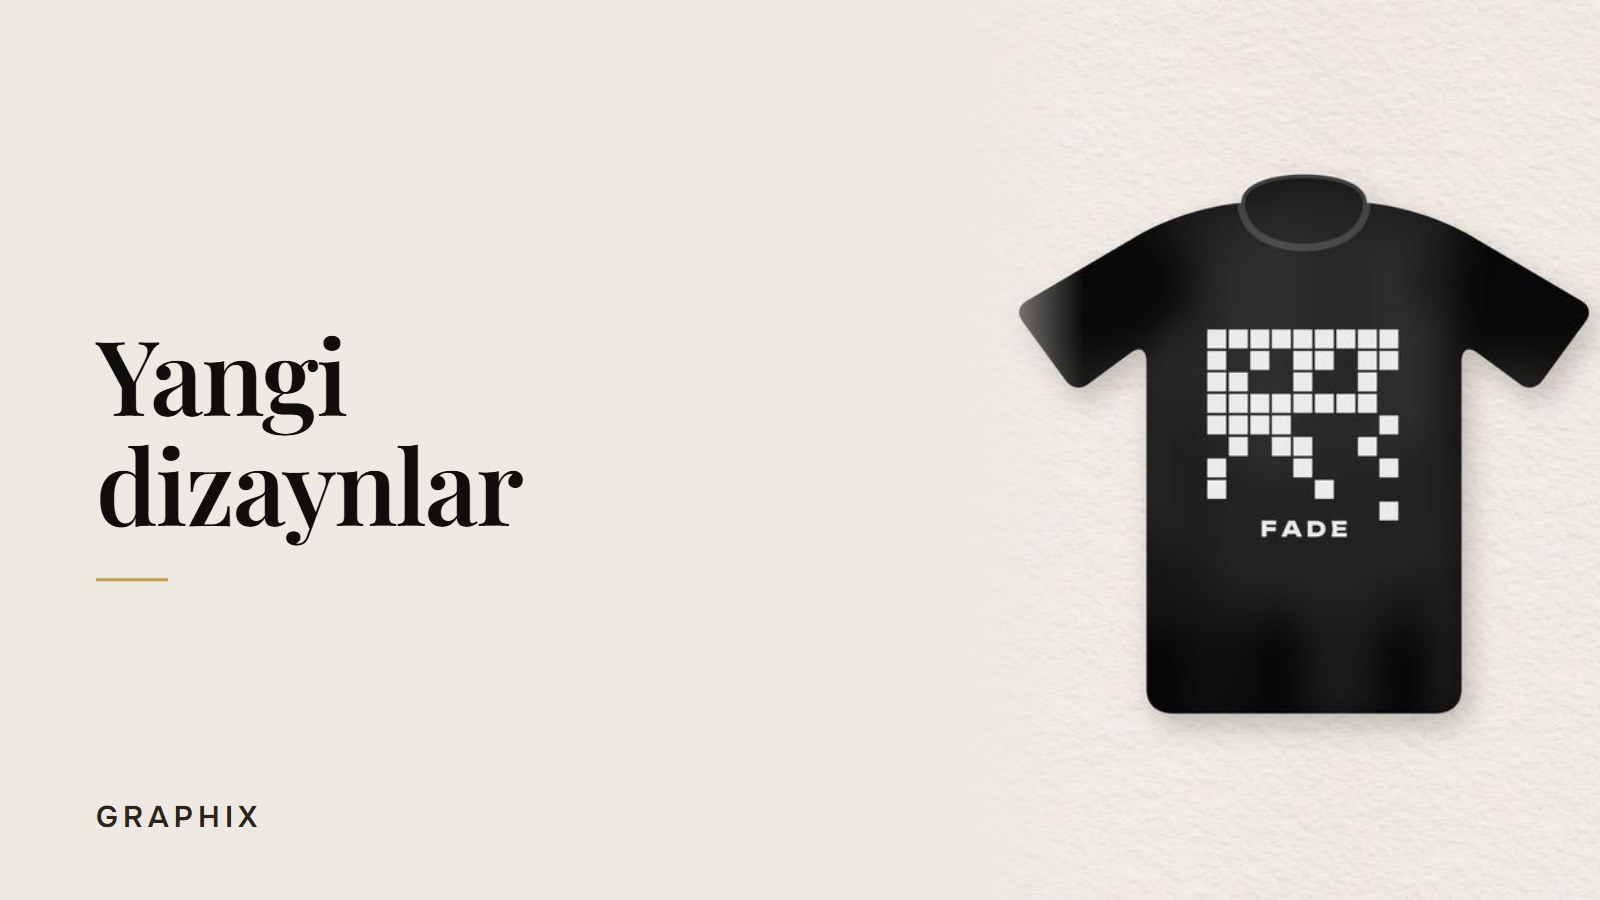
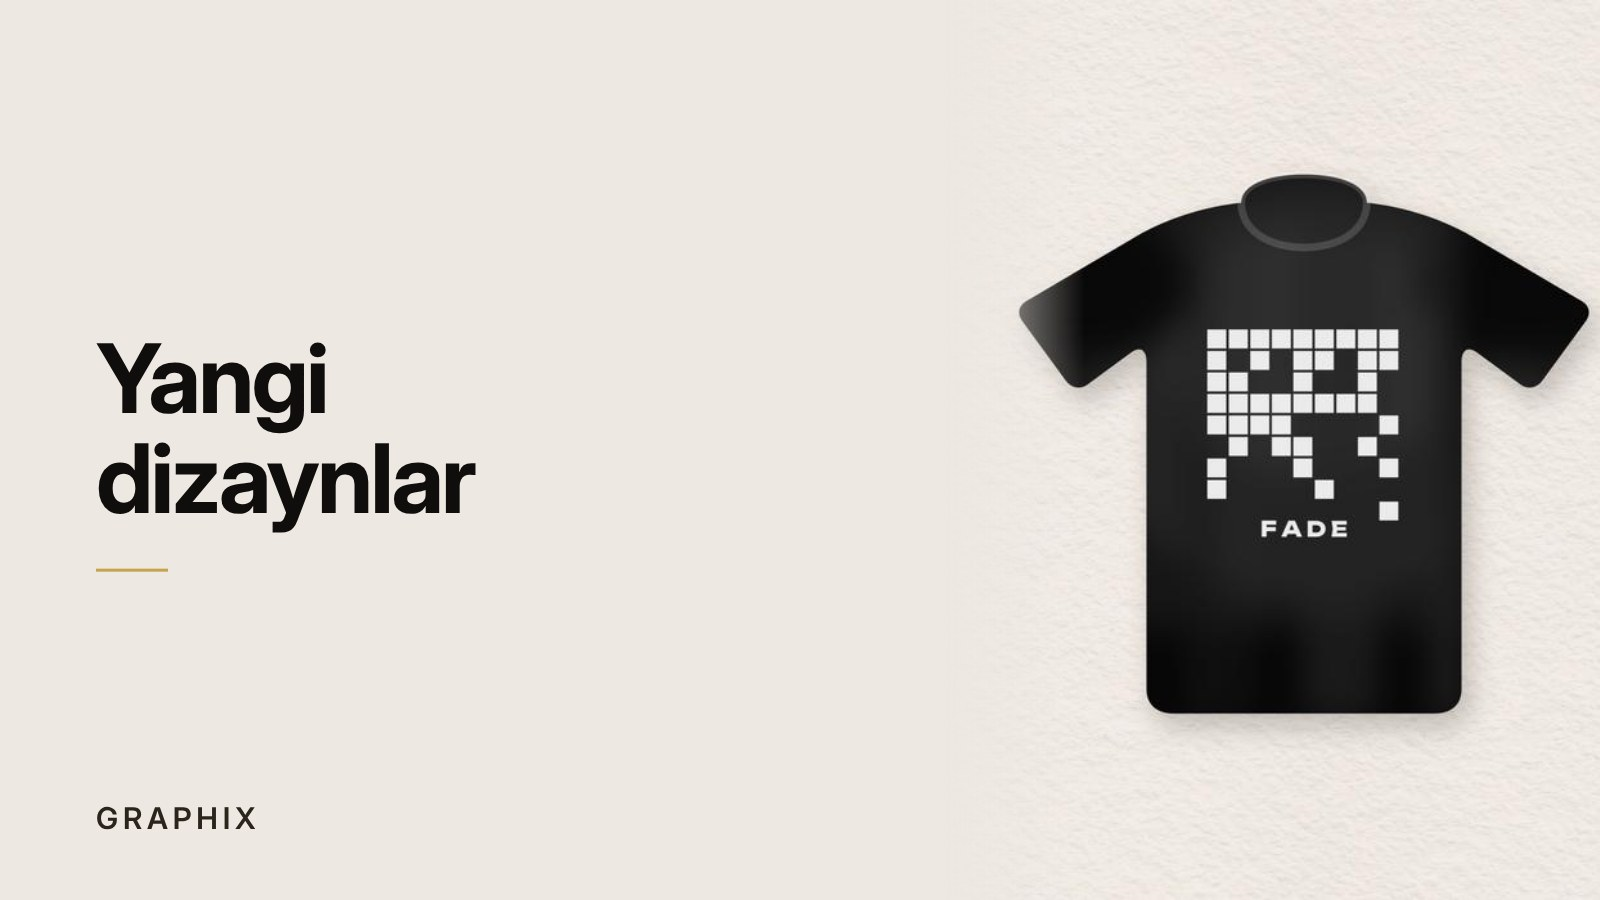
phase-17: redraw the lockups, share card, size chart and demo slides in Inter
Type that lives inside a picture is the same face as the page. The two
wordmark lockups are outlined from Inter Bold. The share card and the size
chart are drawn from HTML sources in docs/brand with the site's own font
file, and the demo slides from the same file.

The size chart's source had been lost and was drawn again from the picture.
It is tracked now, and a test holds its numbers to product/size_charts.py.

Plan §9 Phase 17 item 6.

Claude-Session: https://claude.ai/code/session_01CfDBxfWi2ozahCDG84qt9L

Changed region(s): [[0.0625, 0.3733, 0.3438, 0.6222], [0.0625, 0.8711, 0.1562, 0.9333], [0.0625, 0.6222, 0.125, 0.6533]]

diff --git a/docs/brand/size-guide.html b/docs/brand/size-guide.html
@@ -1,0 +1,145 @@
+<!doctype html>
+<!--
+  GRAPHIX size chart - the picture the size guide page and the product page
+  show (static/img/size_guide.png, 2400 x 1742).
+
+  The source of that PNG. The owner can replace the picture with one of his own
+  (§17 #69); until he does, this is it, and it is set in the site's own face
+  from the file the site serves (§17 #311), on the site's ground and ink.
+
+  One picture for all three languages, so the labels carry all three. The
+  numbers are the ones in product/size_charts.py, and a test holds the two
+  together. They are provisional until a real garment is measured (§17 #95).
+
+  To regenerate, from the repository root in PowerShell, on one line (any
+  Chromium browser takes the same switches; the paths must be absolute, and the
+  time budget lets the font load before the capture):
+
+    & "${env:ProgramFiles(x86)}\Microsoft\Edge\Application\msedge.exe" --headless
+      --hide-scrollbars --window-size=1200,871 --force-device-scale-factor=2
+      --virtual-time-budget=3000
+      "--screenshot=$PWD\static\img\size_guide.png" "$PWD\docs\brand\size-guide.html"
+-->
+<html lang="uz">
+<head>
+<meta charset="utf-8">
+<title>GRAPHIX size chart</title>
+<style>
+  @font-face { font-family: "Inter"; font-weight: 100 900;
+    src: url("../../static/fonts/inter-var.woff2") format("woff2-variations"); }
+  /* The site's tokens (static/css/tokens.css), copied because this page
+     is rendered outside the site. */
+  :root { --c-bg: #100E0C; --c-surface-2: #211C15; --c-fg: #EFE9DE;
+    --c-fg-muted: #B0A697; --c-fg-hint: #958A79; --c-line: #2C2620;
+    --c-line-strong: #453D31; --c-brand: #C6A44E; }
+  * { box-sizing: border-box; margin: 0; padding: 0; }
+  html, body { width: 1200px; height: 871px; overflow: hidden;
+    background: var(--c-bg); color: var(--c-fg);
+    font-family: "Inter", sans-serif; font-weight: 500; }
+  .chart { width: 1200px; height: 871px; padding: 0 56px;
+    display: grid; grid-template-rows: 130px 1fr 128px; }
+
+  .chart__head { display: flex; align-items: flex-end; justify-content: space-between;
+    padding-bottom: 26px; border-bottom: 1px solid var(--c-line-strong); }
+  .chart__title { font-weight: 700; font-size: 56px; line-height: 1; letter-spacing: -.02em; }
+  .chart__brand { font-weight: 700; font-size: 20px; line-height: 1; letter-spacing: .10em;
+    color: var(--c-brand); padding-bottom: 6px; }
+
+  .chart__body { display: grid; grid-template-columns: 468px 1fr; padding-top: 36px; }
+
+  .tee { display: block; width: 292px; height: 264px; margin: -16px 0 0 60px; }
+  .tee__cloth { fill: var(--c-surface-2); stroke: var(--c-line-strong); stroke-width: 2.5;
+    stroke-linejoin: round; }
+  .tee__rule { fill: none; stroke: var(--c-brand); stroke-width: 2.5; stroke-dasharray: 9 7; }
+  .tee__tick { fill: none; stroke: var(--c-brand); stroke-width: 2.5; }
+  .tee__letter { fill: var(--c-brand); font-weight: 700; font-size: 25px; }
+
+  .key { display: grid; grid-template-columns: auto auto; justify-content: start;
+    gap: 14px 26px; margin-top: 38px; font-size: 15px; color: var(--c-fg-muted); }
+  .key b { display: inline-block; width: 24px; color: var(--c-brand); font-weight: 700; }
+
+  .cut + .cut { margin-top: 36px; }
+  .cut__name { font-weight: 700; font-size: 24px; line-height: 1; letter-spacing: -.01em;
+    margin-bottom: 18px; }
+  .cut table { width: 100%; border-collapse: collapse; font-variant-numeric: tabular-nums; }
+  .cut th, .cut td { text-align: right; width: 91px; }
+  .cut th:first-child, .cut td:first-child { text-align: left; width: auto; }
+  .cut thead th { font-size: 12px; font-weight: 600; letter-spacing: .16em; text-transform: uppercase;
+    color: var(--c-fg-hint); padding-bottom: 12px; border-bottom: 1px solid var(--c-line-strong); }
+  .cut tbody td { height: 46px; font-size: 16px; font-weight: 600; border-bottom: 1px solid var(--c-line); }
+  .cut tbody td:first-child { font-weight: 700; }
+  .cut tbody tr:last-child td { border-bottom: 0; }
+
+  .chart__foot { border-top: 1px solid var(--c-line-strong); padding-top: 20px;
+    font-size: 14px; line-height: 21px; color: var(--c-fg-hint); }
+</style>
+</head>
+<body>
+  <div class="chart">
+    <div class="chart__head">
+      <h1 class="chart__title">Oʻlcham jadvali</h1>
+      <span class="chart__brand">GRAPHIX</span>
+    </div>
+
+    <div class="chart__body">
+      <div>
+        <!-- A T-shirt laid flat, with the four measurements drawn on it. -->
+        <svg class="tee" viewBox="-6 -30 486 440" aria-hidden="true">
+          <path class="tee__cloth" d="M137 57Q227 110 317 57L451 147L397 230L333 173L350 388Q350 400 338 400H115Q103 400 103 388L120 173L57 230L3 147Z"/>
+          <path class="tee__rule" d="M137 31H317"/>
+          <path class="tee__tick" d="M137 16V40M317 16V40"/>
+          <path class="tee__rule" d="M105 207H349"/>
+          <path class="tee__tick" d="M105 195V216M349 195V216"/>
+          <path class="tee__rule" d="M227 64V400"/>
+          <path class="tee__tick" d="M211 64H237M213 400H237"/>
+          <path class="tee__rule" d="M325 62L428 180"/>
+          <path class="tee__tick" d="M310 74L330 58M410 192L428 178"/>
+          <text class="tee__letter" x="227" y="2" text-anchor="middle">C</text>
+          <text class="tee__letter" x="204" y="196" text-anchor="middle">A</text>
+          <text class="tee__letter" x="246" y="303">B</text>
+          <text class="tee__letter" x="446" y="136">D</text>
+        </svg>
+        <div class="key">
+          <span><b>A</b>Koʻkrak · Грудь · Chest</span>
+          <span><b>B</b>Uzunlik · Длина · Length</span>
+          <span><b>C</b>Yelka · Плечо · Shoulder</span>
+          <span><b>D</b>Yeng · Рукав · Sleeve</span>
+        </div>
+      </div>
+
+      <div>
+        <div class="cut" data-cut="regular">
+          <h2 class="cut__name">Oddiy / Regular</h2>
+          <table>
+            <thead><tr><th>Oʻlcham</th><th>A</th><th>B</th><th>C</th><th>D</th></tr></thead>
+            <tbody>
+              <tr><td>S</td><td>48</td><td>69</td><td>43</td><td>19</td></tr>
+              <tr><td>M</td><td>51</td><td>71</td><td>46</td><td>20</td></tr>
+              <tr><td>L</td><td>54</td><td>73</td><td>49</td><td>21</td></tr>
+              <tr><td>XL</td><td>57</td><td>75</td><td>52</td><td>22</td></tr>
+            </tbody>
+          </table>
+        </div>
+        <div class="cut" data-cut="oversize">
+          <h2 class="cut__name">Oversize</h2>
+          <table>
+            <thead><tr><th>Oʻlcham</th><th>A</th><th>B</th><th>C</th><th>D</th></tr></thead>
+            <tbody>
+              <tr><td>S</td><td>54</td><td>70</td><td>52</td><td>21</td></tr>
+              <tr><td>M</td><td>57</td><td>72</td><td>55</td><td>22</td></tr>
+              <tr><td>L</td><td>60</td><td>74</td><td>58</td><td>23</td></tr>
+              <tr><td>XL</td><td>63</td><td>76</td><td>61</td><td>24</td></tr>
+            </tbody>
+          </table>
+        </div>
+      </div>
+    </div>
+
+    <div class="chart__foot">
+      <p>Oʻlchamlar kiyim tekis yotqizilgan holda, santimetrda olingan · ±1 sm farq boʻlishi mumkin</p>
+      <p>Замеры сняты с изделия на плоскости, в сантиметрах · допуск ±1 см</p>
+      <p>Measured flat, in centimetres · allow ±1 cm</p>
+    </div>
+  </div>
+</body>
+</html>

diff --git a/docs/brand/og-card.html b/docs/brand/og-card.html
@@ -4,18 +4,18 @@
   beside a link (static/img/og-image.png, 1200 x 630).
 
   The source of that PNG. Phase 1a set the card in a placeholder face before
-  the brand had one (plan §18 #8); this sets it in the site's own - Playfair
-  Display and Onest, the files the site serves - with the site's ground and
-  ink, and the header's own lockup: the mark beside "GRAPHIX" in Playfair,
-  spaced as `.nav__brand` spaces it. No accent: brass is spent only on price,
-  the chosen size and the primary action (§17 #45).
+  the brand had one (plan §18 #8); this sets it in the site's own - Inter,
+  the file the site serves (§17 #311) - with the site's ground and ink, and
+  the header's own lockup: the mark beside "GRAPHIX", spaced as `.nav__brand`
+  spaces it. No accent: brass is spent only on price, the chosen size and the
+  primary action (§17 #45).
 
   One picture for all three languages, so it carries the Uzbek line, and no
   figure that could go stale (no "100+ designs" - §17 #39 gates that claim).
 
   To regenerate, from the repository root in PowerShell, on one line (any
   Chromium browser takes the same switches; the paths must be absolute, and the
-  time budget lets the two fonts load before the capture):
+  time budget lets the font load before the capture):
 
     & "${env:ProgramFiles(x86)}\Microsoft\Edge\Application\msedge.exe" --headless
       --hide-scrollbars --window-size=1200,630 --virtual-time-budget=3000
@@ -26,10 +26,8 @@
 <meta charset="utf-8">
 <title>GRAPHIX share card</title>
 <style>
-  @font-face { font-family: "Playfair Display"; font-weight: 400 900;
-    src: url("../../static/fonts/playfair-display-var.woff2") format("woff2-variations"); }
-  @font-face { font-family: "Onest"; font-weight: 100 900;
-    src: url("../../static/fonts/onest-var.woff2") format("woff2-variations"); }
+  @font-face { font-family: "Inter"; font-weight: 100 900;
+    src: url("../../static/fonts/inter-var.woff2") format("woff2-variations"); }
   /* The site's tokens (static/css/tokens.css), copied because this page
      is rendered outside the site. */
   :root { --c-bg: #100E0C; --c-fg: #EFE9DE; --c-fg-muted: #B0A697; }
@@ -40,13 +38,12 @@
     justify-content: space-between; }
   .card__brand { display: flex; align-items: center; gap: 16px; }
   .card__mark { width: 48px; height: 48px; fill: var(--c-fg); }
-  .card__name { font-family: "Playfair Display", serif; font-weight: 700;
-    font-size: 44px; letter-spacing: .10em; line-height: 1; }
-  .card__line { margin: 0; font-family: "Playfair Display", serif; font-weight: 700;
-    font-size: 76px; line-height: 1.06; letter-spacing: -0.015em; max-width: 900px;
-    text-wrap: balance; }
-  .card__sub { margin: 28px 0 0; font-family: "Onest", sans-serif; font-weight: 500;
-    font-size: 30px; line-height: 1.3; color: var(--c-fg-muted); }
+  .card { font-family: "Inter", sans-serif; }
+  .card__name { font-weight: 700; font-size: 44px; letter-spacing: .10em; line-height: 1; }
+  .card__line { margin: 0; font-weight: 700; font-size: 76px; line-height: 1.06;
+    letter-spacing: -0.02em; max-width: 900px; text-wrap: balance; }
+  .card__sub { margin: 28px 0 0; font-weight: 500; font-size: 30px; line-height: 1.3;
+    color: var(--c-fg-muted); }
 </style>
 </head>
 <body>

diff --git a/core/test_phase17.py b/core/test_phase17.py
@@ -92,6 +92,48 @@ class OneFaceTests(SimpleTestCase):
                 self.assertIn('crossorigin', preloads[0])
 
 
+class PicturesTests(SimpleTestCase):
+    """Type that lives inside a picture is the same face, and can be drawn again."""
+
+    BRAND = ROOT / 'docs' / 'brand'
+    IMG = ROOT / 'static' / 'img'
+
+    def test_each_picture_source_draws_with_the_site_file(self):
+        for name in ('og-card.html', 'size-guide.html'):
+            with self.subTest(source=name):
+                text = (self.BRAND / name).read_text(encoding='utf-8')
+                self.assertIn('static/fonts/inter-var.woff2', text)
+                self.assertIsNone(RETIRED.search(text))
+
+    def test_the_size_chart_source_names_its_picture(self):
+        text = (self.BRAND / 'size-guide.html').read_text(encoding='utf-8')
+        self.assertIn('size_guide.png', text)
+        self.assertIn('--window-size=1200,871', text)
+
+    def test_the_size_chart_carries_the_seeded_measurements(self):
+        """The picture's numbers and the rows the site seeds are one table."""
+        from product import size_charts
+        text = (self.BRAND / 'size-guide.html').read_text(encoding='utf-8')
+        for cut, table in (('regular', size_charts.REGULAR), ('oversize', size_charts.OVERSIZE)):
+            block = re.search(r'data-cut="%s".*?</table>' % cut, text, re.S).group(0)
+            rows = re.findall(r'<tr>((?:<td>[^<]*</td>)+)</tr>', block)
+            drawn = {cells[0]: tuple(cells[1:]) for cells in
+                     (re.findall(r'<td>([^<]*)</td>', row) for row in rows)}
+            seeded = {size: tuple(str(int(float(value))) for value in values)
+                      for size, values in table.items()}
+            with self.subTest(cut=cut):
+                self.assertEqual(drawn, seeded)
+
+    def test_the_lockups_are_outlines(self):
+        """Paths only, so they need no font where they are used."""
+        for name in ('logo-full.svg', 'logo-stacked.svg'):
+            with self.subTest(lockup=name):
+                text = (self.IMG / name).read_text(encoding='utf-8')
+                self.assertNotIn('<text', text)
+                self.assertNotIn('font', text)
+                self.assertIn('aria-label="GRAPHIX"', text)
+
+
 class OneFontRequestTests(TestCase):
     """A rendered page asks for one font file."""
 

diff --git a/core/test_backlog.py b/core/test_backlog.py
@@ -547,7 +547,8 @@ class IconAndShareCardTests(TestCase):
     def test_the_card_has_a_source_in_the_brand_folder(self):
         source = ROOT / 'docs' / 'brand' / 'og-card.html'
         text = source.read_text(encoding='utf-8')
-        self.assertIn('Playfair Display', text)
+        # Set in the face the site serves, from the file the site serves.
+        self.assertIn('static/fonts/inter-var.woff2', text)
         self.assertIn('--window-size=1200,630', text)
         self.assertIn('og-image.png', text)
 
